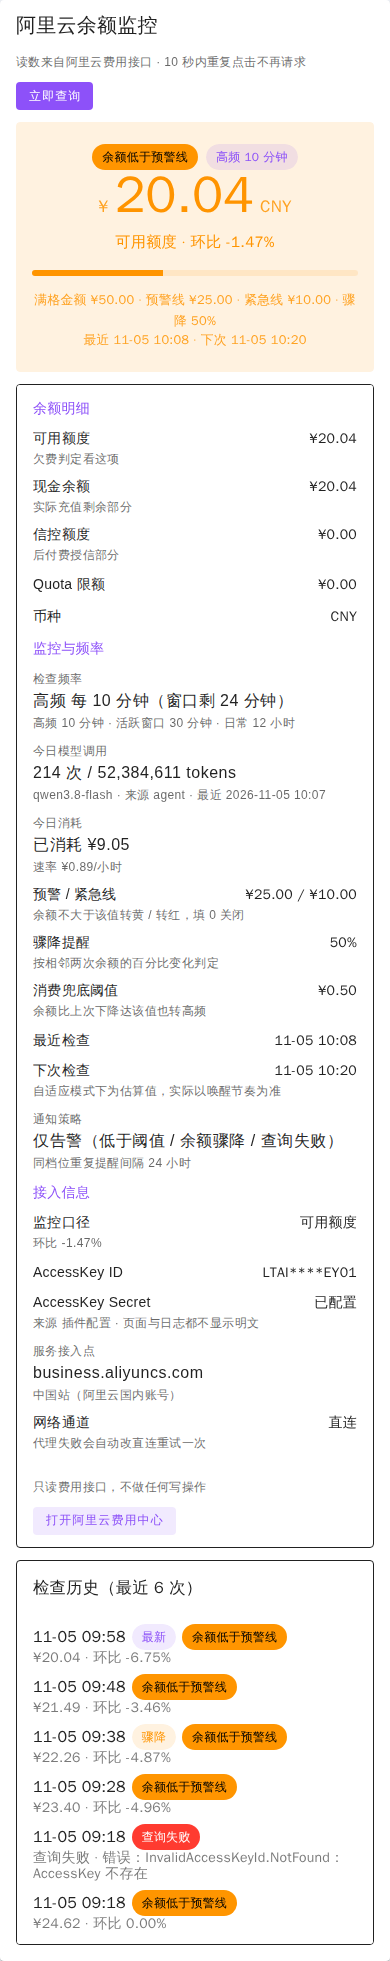
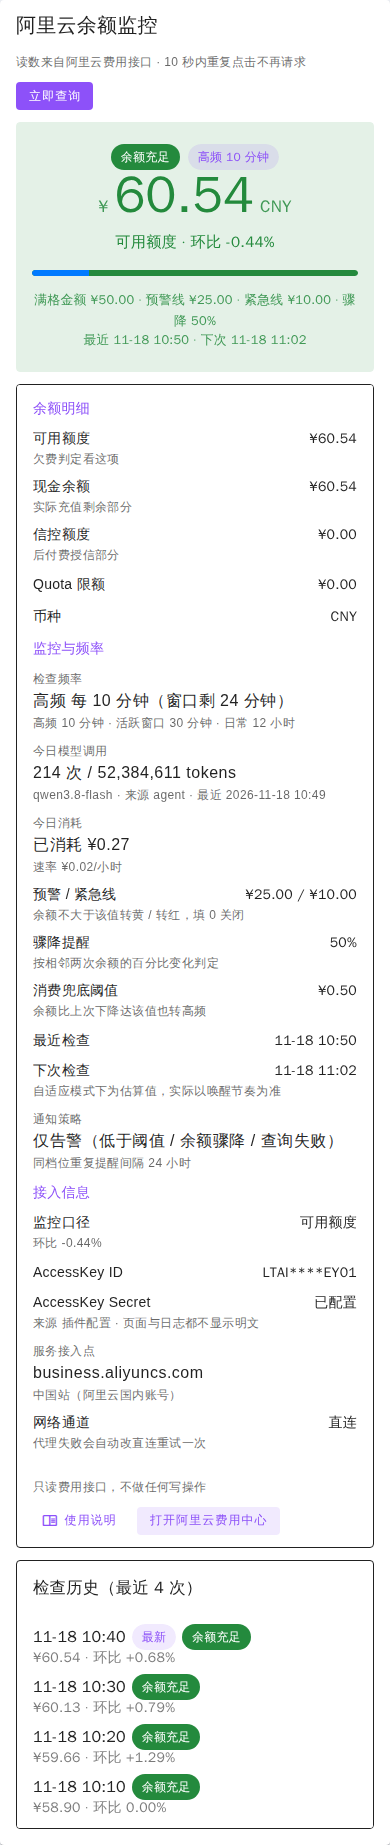
AliyunBalance v1.6.14：余额超过满格金额时进度条超出部分从左侧用蓝色叠加

diff --git a/plugins.v2/aliyunbalance/__init__.py b/plugins.v2/aliyunbalance/__init__.py
@@ -52,7 +52,7 @@ class AliyunBalance(_PluginBase):
     plugin_icon = ("https://raw.githubusercontent.com/andyxu8023/"
                    "MoviePilot-Plugins/main/icons/aliyunbalance.png")
     # 插件版本
-    plugin_version = "1.6.12"
+    plugin_version = "1.6.14"
     # 插件标签
     plugin_label = "工具,监控,云服务"
     # 插件作者
@@ -784,8 +784,8 @@ class AliyunBalance(_PluginBase):
         """余额相对满格金额（未设置时按预警线）的实际百分比，不做上下钳制。
 
         卡片上的数字按实际结果显示：高于满格金额就写 137%，欠费为负就写 -12%，
-        不再一律压成 100% 或 0%。进度条仍用钳制后的 _bar_ratio，否则
-        VProgressLinear 会画出一条溢出容器的满格条。
+        不再一律压成 100% 或 0%。画条走 _bar_element：不超过满格用钳制后的单条，
+        超过时叠两根条露出超出色，VProgressLinear 本身永远收不到大于 100 的值。
         """
         full = self._bar_full_amount()
         if value is not None and full > 0:
@@ -801,6 +801,45 @@ class AliyunBalance(_PluginBase):
         if self._bar_full > 0:
             return f"相对满格金额 {self._money(self._bar_full, currency)}"
         return "相对预警线"
+
+    # 余额超过满格金额时，超出部分用这个 Vuetify 色名叠加；颜色由组件按主题解析，明暗自适应
+    _OVERFLOW_COLOR = "info"
+
+    def _bar_element(self, value: Optional[float], status: str, color: str,
+                     height: int, margin_class: str) -> dict:
+        """进度条元素：不超过满格金额时单条，超过时双色叠加，超出段从左侧起画。
+
+        宿主前端自带的 Vuetify VProgressLinear 没有多段模式，超过 100 会被钳制，
+        「画满一根条」看不出到底超了多少。叠加做法：同一条轨道里绝对定位叠两根
+        条——底条用状态色铺满整根（表示到满格金额），顶条用超出色只画「实际百分比
+        − 100」那一段并从左端起覆盖，并用 bg-opacity 关掉自身背景，于是左侧超出色
+        的宽度与实际超出成比例（137% 时左侧约 27% 条宽为超出色），右侧余下部分保持
+        状态色。同层绝对定位元素按 DOM 顺序绘制，顶条在后天然盖住底条，不需要
+        z-index。
+        """
+        exact = self._bar_ratio_exact(value, status)
+        if exact <= 100:
+            return {"component": "VProgressLinear",
+                    "props": {"model-value": round(self._bar_ratio(value, status), 1),
+                              "color": color, "height": height,
+                              "rounded": True, "class": margin_class}}
+        over_share = 100 - 10000.0 / exact
+        track = (f"position:relative;height:{height}px;"
+                 f"border-radius:{height / 2:.0f}px;overflow:hidden")
+        overlay = "position:absolute;left:0;right:0;top:0;margin:0"
+        return {"component": "div",
+                "props": {"class": margin_class, "style": track},
+                "content": [
+                    {"component": "VProgressLinear",
+                     "props": {"model-value": 100, "color": color,
+                               "height": height, "rounded": True,
+                               "style": overlay}},
+                    {"component": "VProgressLinear",
+                     "props": {"model-value": round(over_share, 1),
+                               "color": self._OVERFLOW_COLOR,
+                               "height": height, "rounded": True,
+                               "bg-opacity": 0, "style": overlay}},
+                ]}
 
     def _next_check_text(self) -> str:
         """推算下一次自动检查时间：自适应按间隔估算，固定周期按 cron 推算。"""
@@ -1082,8 +1121,7 @@ class AliyunBalance(_PluginBase):
         symbol = self._currencies.get(currency.upper(), "")
         value = self._opt_float(record.get("watch_value"))
         warn = self._warn_threshold
-        ratio = self._bar_ratio(value, status)
-        # 条子钳制、数字用实际值：超过满格金额时卡片要能看出超了多少
+        # 数字用实际值：超过满格金额时卡片要能看出超了多少，条子同时叠出超出色
         caption_ratio = self._bar_ratio_exact(value, status)
         spent, rate = self._burn_metrics(value)
         # 进度条颜色只反映「最后已知读数」的档位：查询失败时不能用 error 色去涂一根
@@ -1123,9 +1161,7 @@ class AliyunBalance(_PluginBase):
                     *chips,
                 ],
             },
-            {"component": "VProgressLinear",
-             "props": {"model-value": round(ratio, 1), "color": bar_color,
-                       "height": 8, "rounded": True, "class": "mt-3"}},
+            self._bar_element(value, status, bar_color, 8, "mt-3"),
             self._dash_caption(f"{self._bar_caption(currency)} {caption_ratio:.0f}% · {limits}"),
             {
                 "component": "div",
@@ -1877,7 +1913,6 @@ class AliyunBalance(_PluginBase):
         color, label = self._status_meta.get(status, self._status_meta["unknown"])
         currency = str(record.get("currency") or "")
         value = self._opt_float(record.get("watch_value"))
-        ratio = self._bar_ratio(value, status)
         content: List[dict] = [
             {"component": "div", "props": {"style": self._hero_badge_style},
              "content": [self._chip(label, color, "flat"), self._freq_badge()]},
@@ -1891,9 +1926,7 @@ class AliyunBalance(_PluginBase):
             ]},
             {"component": "div", "props": {"style": self._sub_text_style},
              "text": f"{self._watch_label()} · 环比 {self._delta_text(record)}"},
-            {"component": "VProgressLinear",
-             "props": {"model-value": round(ratio, 1), "color": color,
-                       "height": 6, "rounded": True, "class": "mt-4"}},
+            self._bar_element(value, status, color, 6, "mt-4"),
             {"component": "div", "props": {"style": self._foot_style},
              "text": self._threshold_hint(currency)},
             {"component": "div",
